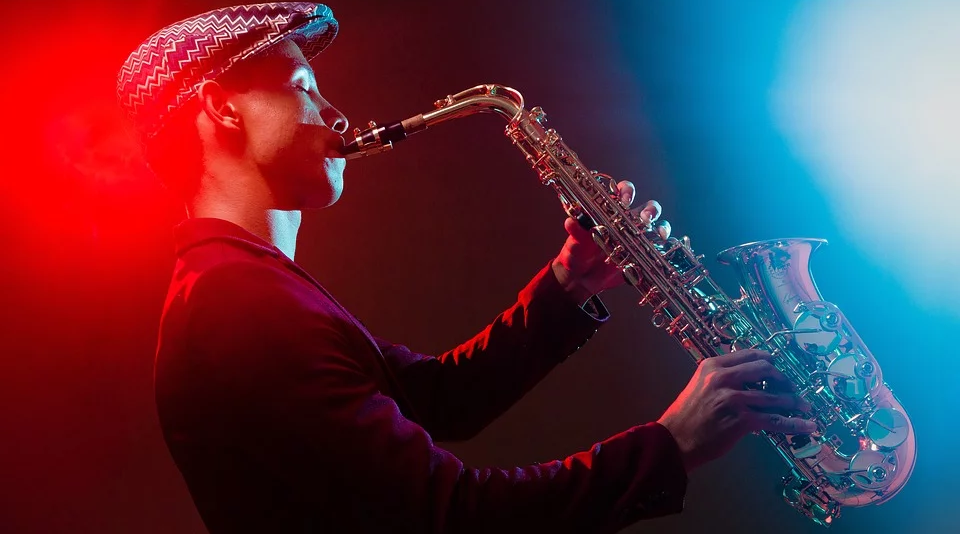
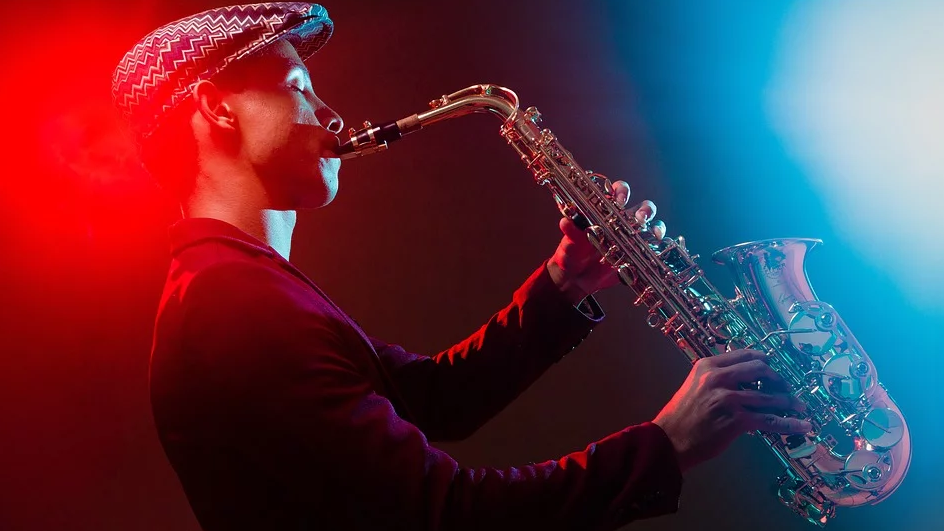
Update img carousel

diff --git a/index.html b/index.html
@@ -13,13 +13,8 @@
 	<script src="https://ajax.googleapis.com/ajax/libs/jquery/3.4.1/jquery.min.js"></script>
 	<link rel="shortcut icon" href="asset/logo-transparan.png">
 	<title>Mosaik Musik</title>
-	<style>
-  	/* Make the image fully responsive */
-  		.carousel-inner img {
-      		width: 100%;
-      	}
-  	</style>
 </head>
+
 <script src="js/bootstrap.min.js"></script>
 <body>
 <input type="checkbox" id="navcheck" role="button" title="menu">
@@ -67,13 +62,13 @@
 	 	<!-- The slideshow -->
 	  	<div class="carousel-inner">
 	    	<div class="carousel-item active">
-	      		<img src="asset/pemaingitar.jpg" height="660">
+	      		<img src="asset/pemaingitar.jpg" height="auto">
 	    	</div>
 	    	<div class="carousel-item">
-	    		<img src="asset/pemainpiano.jpg" height="660" >
+	    		<img src="asset/pemainpiano.jpg" height="auto" >
 	    	</div>
 	    	<div class="carousel-item">
-	      		<img src="asset/pemainsaxophone.png" height="660">
+	      		<img src="asset/pemainsaxophone.png" height="auto">
 	    	</div>
 	  	</div>
 

diff --git a/css/style-index.css b/css/style-index.css
@@ -5,6 +5,11 @@ body  {
   background-attachment: fixed;
 }
 
+/* Make the image fully responsive */
+.carousel-inner img {
+    width: 100%;
+}
+
 header h1{
 	padding-top: 20%;
 	padding-bottom: 20%;
